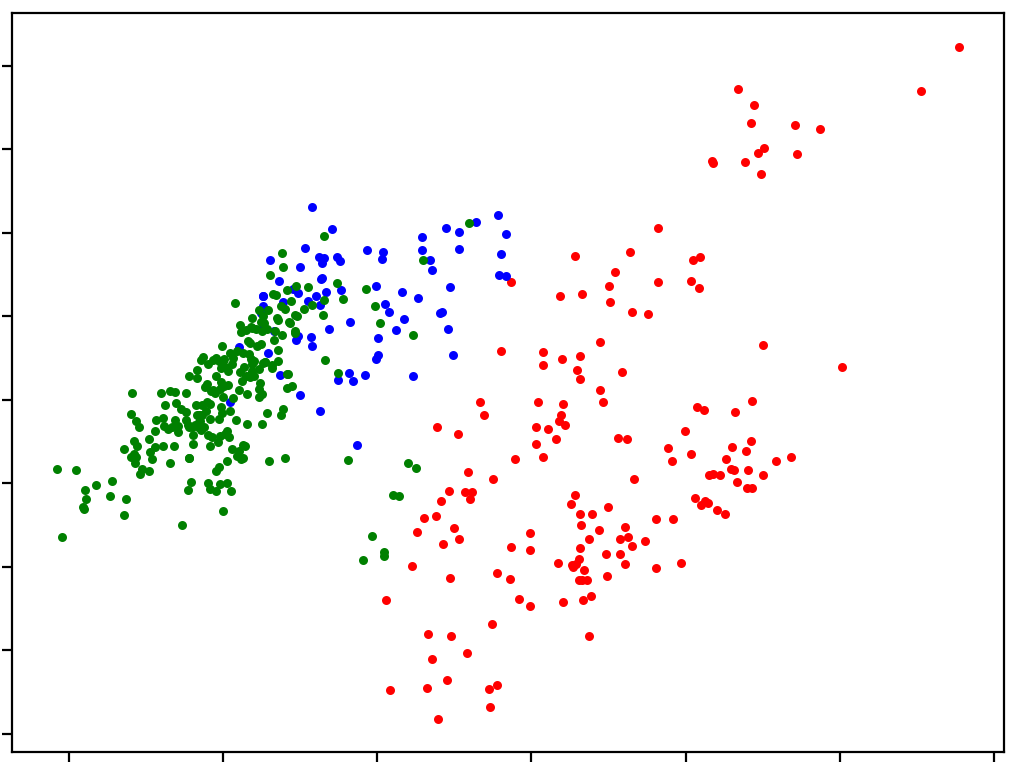
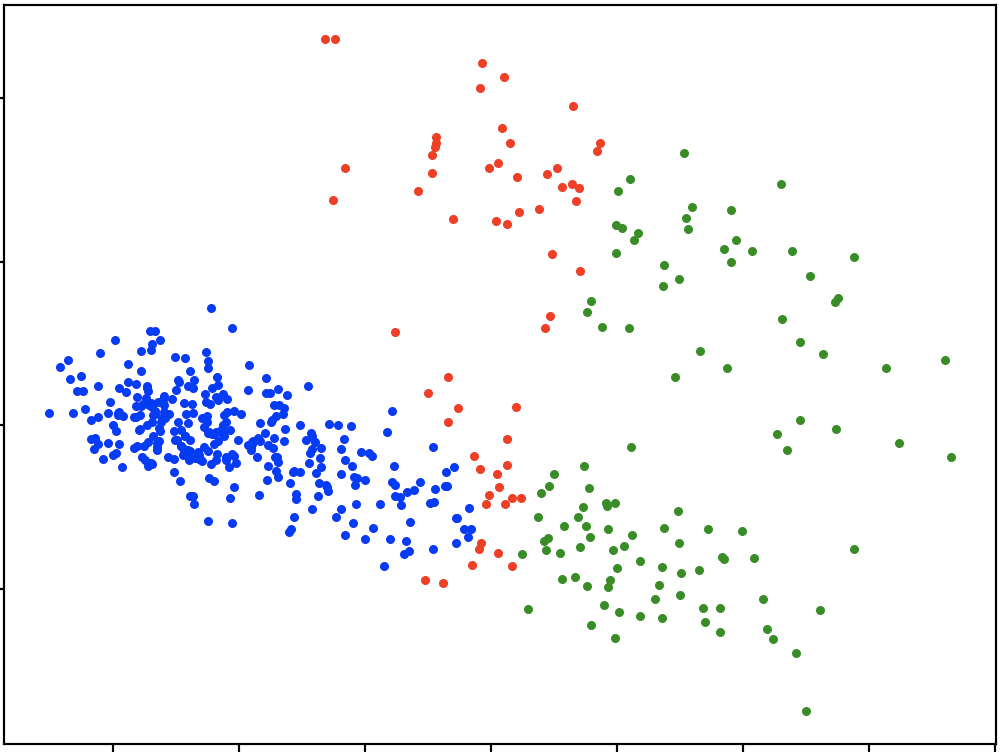
fig

diff --git a/utils.py b/utils.py
@@ -6,8 +6,8 @@ import glob
 import matplotlib.pyplot as plt
 import sklearn
 import pickle
-from sklearn import decomposition
 from sklearn import metrics
+from sklearn import decomposition
 
 class Example(object):
     """
@@ -156,17 +156,19 @@ def make_padded_output_tensor(exs, output_indexer, max_len):
     """
     return np.array([[ex.y_indexed[i] if i < len(ex.y_indexed) else output_indexer.index_of(PAD_SYMBOL) for i in range(0, max_len)] for ex in exs])
 
-def plot_latent(data, autoencoder, gm, num_filters):
+def plot_latent(data, autoencoder, gm, num_filters, disp_sil_score=False):
     input_lens = torch.tensor([len(ex.x_indexed) for ex in data])
     input_max_len = torch.max(input_lens).item()
     x_tensor = make_padded_input_tensor(data, autoencoder.input_indexer, input_max_len, reverse_input=False)
     (o, c, hn) = autoencoder.encoder(torch.tensor(x_tensor), input_lens)
     X = hn[0].detach().numpy()
-    labels = gm.predict(X)
-    sil_score = metrics.silhouette_score(X, labels)
-    print('Silhouette Score: ', sil_score)
+    
     pca =  decomposition.PCA(n_components=2)
     X = pca.fit_transform(X)
+    labels = gm.predict(X)
+    if disp_sil_score:
+        sil_score = metrics.silhouette_score(X, labels)
+        print('Silhouette Score: ', sil_score)
     colors=['red', 'blue', 'green', 'purple']
     for i in range(num_filters):
         plt.scatter(X[labels==i, 0], X[labels==i, 1], s=5, c=colors[i])

diff --git a/main.py b/main.py
@@ -52,7 +52,7 @@ if __name__ == '__main__':
     autoencoder = train_encoder(train_data_indexed, input_indexer, output_indexer, args)
     print('Training Time: ', time.time() - t)
     gm = train_gaussian_mixture(train_data_indexed, autoencoder, args.num_filters)
-    #plot_latent(train_data_indexed, autoencoder, gm, args.num_filters)
+    # plot_latent(train_data_indexed, autoencoder, gm, args.num_filters)
     
     t1 = time.time()
     mgmae = train_decoders(train_data_indexed, input_indexer, output_indexer, autoencoder, gm, args.num_filters, args)

diff --git a/train.py b/train.py
@@ -4,6 +4,8 @@ from models import *
 import copy
 import sklearn
 from sklearn.mixture import GaussianMixture
+from sklearn.pipeline import Pipeline
+from sklearn import decomposition
 
 def train_encoder(train_data: List[Example], input_indexer, output_indexer, args):
     HIDDEN_SIZE = args.hidden_size
